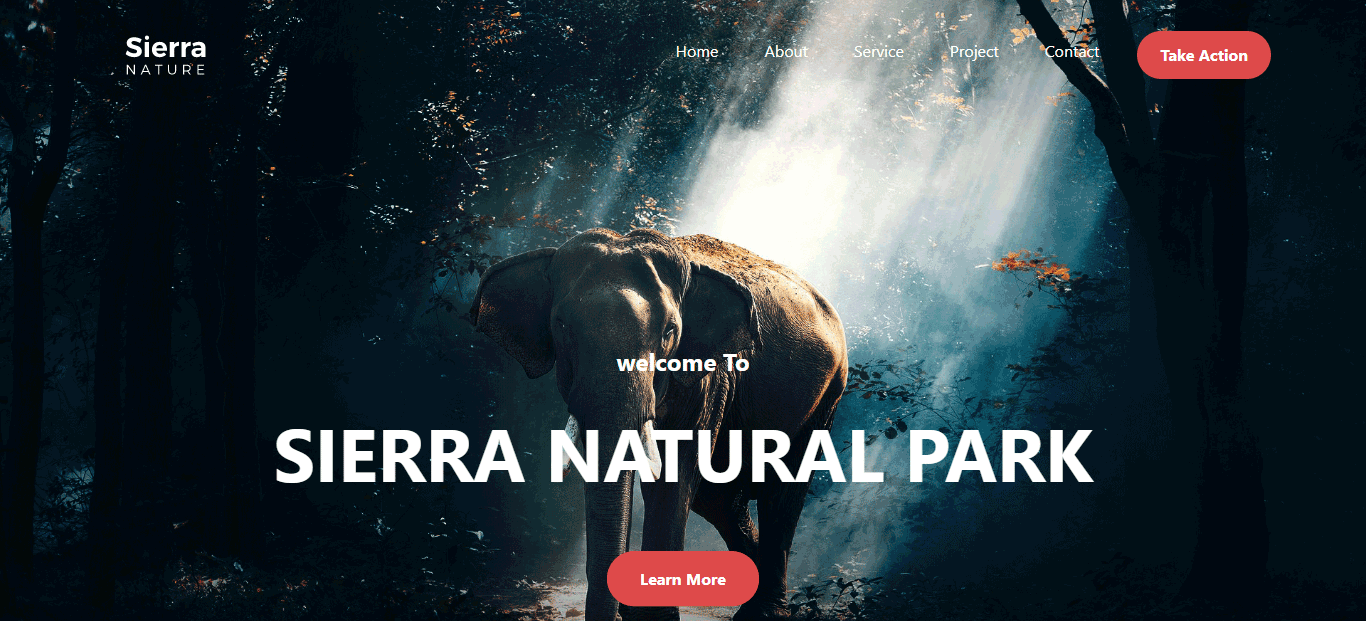
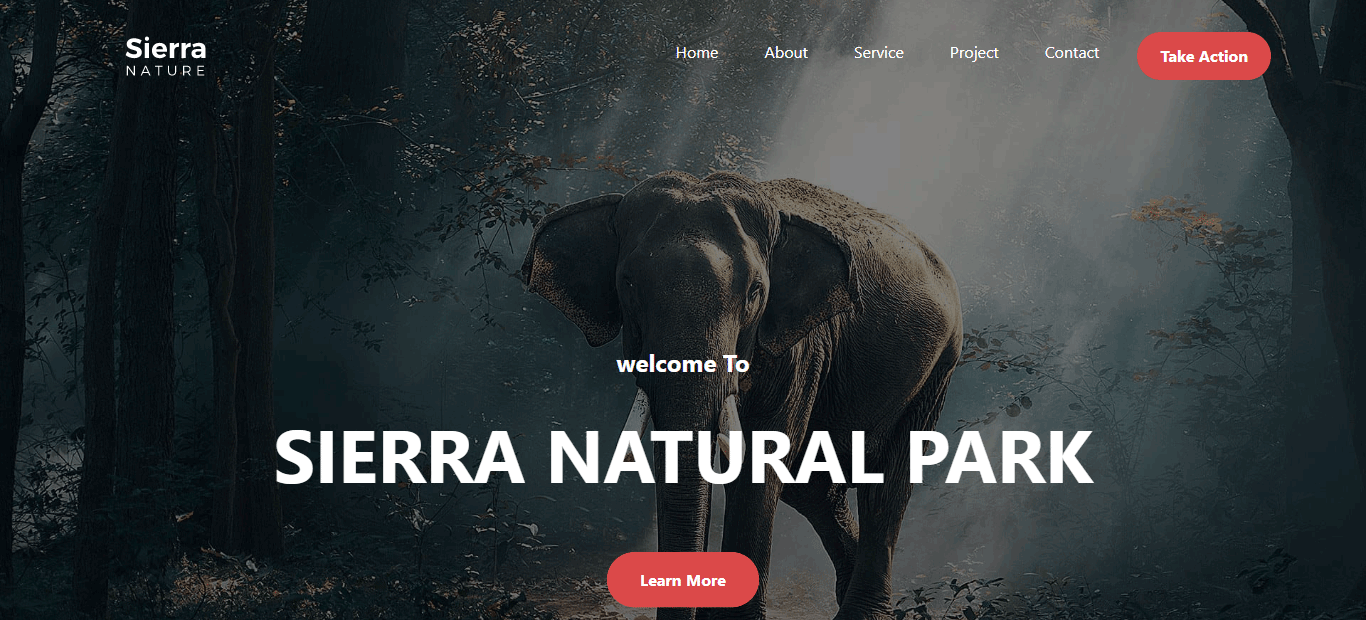
image size reduce beach opacity

diff --git a/css/style.css b/css/style.css
@@ -38,7 +38,8 @@
  
 
    .home{
-      background-image:url("../Photos/elephnat.png");
+      background-image:url("../Photos/bg.jpg");
+  
       background-position:center center;
       background-size:cover;
       background-repeat:no-repeat;
@@ -47,6 +48,17 @@
       background-attachment:fixed;
       position:relative;
     
+   }
+
+   .home:before{
+      content:'';
+      position:absolute;
+      top:0;
+      left:0;
+      width:100%;
+      height:140vh;
+      background-color:#000;
+      opacity:0.5;
    }
  
    nav ul li a{
@@ -232,32 +244,58 @@
 
 
 .service{
-   background-image:url("../Photos/beach.png");
+   background-image:url("../Photos/beach.jpg");
    background-position:center center;
    background-size:cover;
    background-repeat:no-repeat;
    padding:150px 0;
    background-attachment:fixed;
+   position:relative;
+ 
+}
+
+.service:before{
+   content:'';
+   position:absolute;
+   top:0;
+   left:0;
+   width:100%;
+   height:100%;
+   background-color:#000;
+   opacity:0.8;
+   z-index:0;
+   
+}
+.service .left-content{
+   z-index:100;
+   opacity:1;
 }
 .service h2,h3,h4,h5, p{
   color:#fff;
+ 
 }
 .service > h2,h3,h4{
    line-height:1.4;
    padding-bottom:5px;
    font-weight:bold;
+   
 }
 .service  p{
+   color:#fff;
    line-height:1.7;
+  
 }
 .service span{
    display: inline-block;
    background-color: #f9f8f8;
    width: 100%;
    height: 1px;
+  
 }
 .service .right-content{
   padding-left:100px;
+  z-index:100;
+  opacity:1;
 }
 
 

diff --git a/index.html b/index.html
@@ -110,7 +110,7 @@
 <section class="service">
   <div class="container">
     <div class="row gx-5 gy-4" data-anijs="if: scroll, on: window, do: swing animated, before: scrollReveal, after: removeAnim">
-        <div class="col-md-6" >
+        <div class="col-md-6 left-content" >
            <h4>Service</h4>
            <h3>Lorem Ipsum Dolor Sit Amet, Consectetur Adipiscing Elit. Ut Elit Tellus, Luctus Nec Ullamcorper.</h3>
            <span></span>
